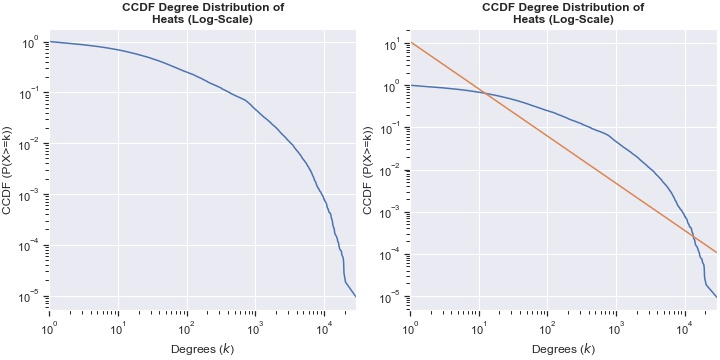
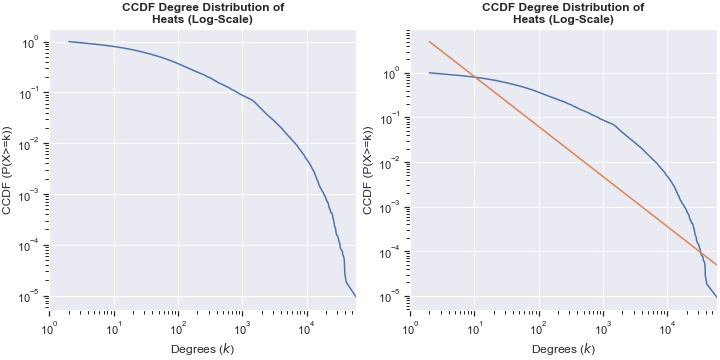
Updated graph summaries for resource allocation projections

diff --git a/data/graph_summaries/projections/heats/heats.md b/data/graph_summaries/projections/heats/heats.md
@@ -1,34 +1,34 @@
 # Generic Summary of Unipartite Graph **Heats**
 ---
-Created: 22/11/21
-Computation Time: 146.25sec
+Created: 23/11/21
+Computation Time: 182.29sec
 
 ## Basic Statistics
 ---
 <table>
 <tr><th align="center"><img width="441" height="1"><p><small>Network Statistic</small></p></th><th align="center"><img width="441" height="1"><p><small>Result</small></p></th></tr>
 <tr><td>Number of Nodes</td><td>108748</td></tr>
-<tr><td>Number of Edges</td><td>11058181</td></tr>
+<tr><td>Number of Edges</td><td>22116362</td></tr>
 <tr><td>Global Density</td><td>0.0018701443365104705</td></tr>
-<tr><td>Global Diameter</td><td>No Global Diameter (Unconnected Graph)</td></tr>
+<tr><td>Global Diameter</td><td>None</td></tr>
 </table>
 
 ## Degree Statistics
 ---
 <table>
 <tr><th align="center"><img width="441" height="1"><p><small>Network Statistic</small></p></th><th align="center"><img width="441" height="1"><p><small>Result</small></p></th></tr>
-<tr><td>Average Degree</td><td>203.37258616250415</td></tr>
-<tr><td>Five-Number-Summary Degrees</td><td>[    1.     6.    26.   100. 29649.]</td></tr>
+<tr><td>Average Degree</td><td>406.7451723250083</td></tr>
+<tr><td>Five-Number-Summary Degrees</td><td>[    2.    12.    52.   200. 59298.]</td></tr>
 </table>
 
 ## Edge Weight Statistics
 ---
 <table>
 <tr><th align="center"><img width="441" height="1"><p><small>Network Statistic</small></p></th><th align="center"><img width="441" height="1"><p><small>Result</small></p></th></tr>
-<tr><td>Average Edge Weight</td><td>0.0023216712275887655</td></tr>
-<tr><td>Five-Number-Summary Edge Weights</td><td>[0.00000031 0.00004409 0.00014842 0.0005787  0.5       ]</td></tr>
-<tr><td>Variance of Edge Weights</td><td>0.0001995303209876125</td></tr>
-<tr><td>Most Frequent Edge Weight</td><td>0.0023148148148148</td></tr>
+<tr><td>Average Edge Weight</td><td>None</td></tr>
+<tr><td>Five-Number-Summary Edge Weights</td><td>None</td></tr>
+<tr><td>Variance of Edge Weights</td><td>None</td></tr>
+<tr><td>Most Frequent Edge Weight</td><td>None</td></tr>
 </table>
 
 ## Clustering Statistics
@@ -43,11 +43,11 @@ Computation Time: 146.25sec
 ---
 <table>
 <tr><th align="center"><img width="441" height="1"><p><small>Network Statistic</small></p></th><th align="center"><img width="441" height="1"><p><small>Result</small></p></th></tr>
-<tr><td>Number of CC</td><td>2948</td></tr>
-<tr><td>Average CC Size</td><td>36.888738127544094</td></tr>
-<tr><td>Five-Number-Summary of CC Sizes</td><td>[    2.     2.     2.     3. 99907.]</td></tr>
-<tr><td>Average CC Density</td><td>0.9750485618768777</td></tr>
-<tr><td>Five-Number-Summary of CC Densities</td><td>[0.00221309 1.         1.         1.         1.        ]</td></tr>
+<tr><td>Number of CC</td><td>None</td></tr>
+<tr><td>Average CC Size</td><td>None</td></tr>
+<tr><td>Five-Number-Summary of CC Sizes</td><td>None</td></tr>
+<tr><td>Average CC Density</td><td>None</td></tr>
+<tr><td>Five-Number-Summary of CC Densities</td><td>None</td></tr>
 </table>
 
 ## Centrality Statistics

diff --git a/data/graph_summaries/projections/probs/probs.md b/data/graph_summaries/projections/probs/probs.md
@@ -1,34 +1,34 @@
 # Generic Summary of Unipartite Graph **Probs**
 ---
-Created: 22/11/21
-Computation Time: 144.04sec
+Created: 23/11/21
+Computation Time: 253.95sec
 
 ## Basic Statistics
 ---
 <table>
 <tr><th align="center"><img width="441" height="1"><p><small>Network Statistic</small></p></th><th align="center"><img width="441" height="1"><p><small>Result</small></p></th></tr>
 <tr><td>Number of Nodes</td><td>108748</td></tr>
-<tr><td>Number of Edges</td><td>11058181</td></tr>
+<tr><td>Number of Edges</td><td>22116362</td></tr>
 <tr><td>Global Density</td><td>0.0018701443365104705</td></tr>
-<tr><td>Global Diameter</td><td>No Global Diameter (Unconnected Graph)</td></tr>
+<tr><td>Global Diameter</td><td>None</td></tr>
 </table>
 
 ## Degree Statistics
 ---
 <table>
 <tr><th align="center"><img width="441" height="1"><p><small>Network Statistic</small></p></th><th align="center"><img width="441" height="1"><p><small>Result</small></p></th></tr>
-<tr><td>Average Degree</td><td>203.37258616250415</td></tr>
-<tr><td>Five-Number-Summary Degrees</td><td>[    1.     6.    26.   100. 29649.]</td></tr>
+<tr><td>Average Degree</td><td>406.7451723250083</td></tr>
+<tr><td>Five-Number-Summary Degrees</td><td>[    2.    12.    52.   200. 59298.]</td></tr>
 </table>
 
 ## Edge Weight Statistics
 ---
 <table>
 <tr><th align="center"><img width="441" height="1"><p><small>Network Statistic</small></p></th><th align="center"><img width="441" height="1"><p><small>Result</small></p></th></tr>
-<tr><td>Average Edge Weight</td><td>0.006128996390152212</td></tr>
-<tr><td>Five-Number-Summary Edge Weights</td><td>[0.00000038 0.000323   0.00096339 0.00378788 0.5       ]</td></tr>
-<tr><td>Variance of Edge Weights</td><td>0.0004830660824282872</td></tr>
-<tr><td>Most Frequent Edge Weight</td><td>0.0006925207756232</td></tr>
+<tr><td>Average Edge Weight</td><td>None</td></tr>
+<tr><td>Five-Number-Summary Edge Weights</td><td>None</td></tr>
+<tr><td>Variance of Edge Weights</td><td>None</td></tr>
+<tr><td>Most Frequent Edge Weight</td><td>None</td></tr>
 </table>
 
 ## Clustering Statistics
@@ -43,11 +43,11 @@ Computation Time: 144.04sec
 ---
 <table>
 <tr><th align="center"><img width="441" height="1"><p><small>Network Statistic</small></p></th><th align="center"><img width="441" height="1"><p><small>Result</small></p></th></tr>
-<tr><td>Number of CC</td><td>2948</td></tr>
-<tr><td>Average CC Size</td><td>36.888738127544094</td></tr>
-<tr><td>Five-Number-Summary of CC Sizes</td><td>[    2.     2.     2.     3. 99907.]</td></tr>
-<tr><td>Average CC Density</td><td>0.9750485618768777</td></tr>
-<tr><td>Five-Number-Summary of CC Densities</td><td>[0.00221309 1.         1.         1.         1.        ]</td></tr>
+<tr><td>Number of CC</td><td>None</td></tr>
+<tr><td>Average CC Size</td><td>None</td></tr>
+<tr><td>Five-Number-Summary of CC Sizes</td><td>None</td></tr>
+<tr><td>Average CC Density</td><td>None</td></tr>
+<tr><td>Five-Number-Summary of CC Densities</td><td>None</td></tr>
 </table>
 
 ## Centrality Statistics
